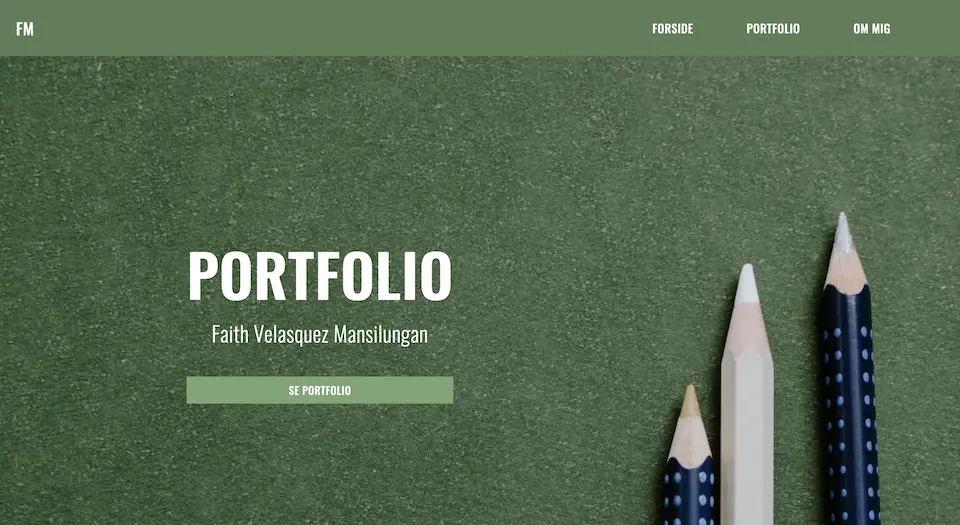
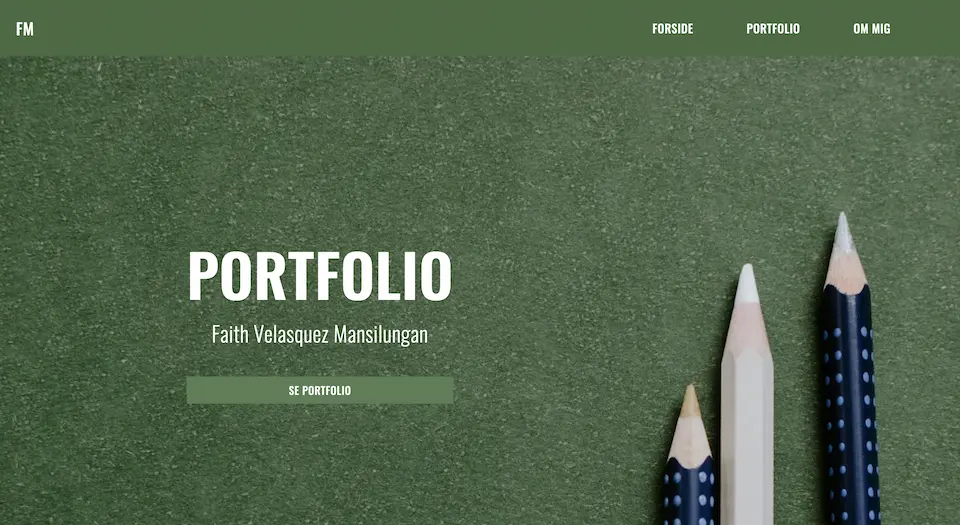
Opdateret billeder efter lighthousetest

diff --git a/tema6.html b/tema6.html
@@ -111,9 +111,21 @@
         <div class="container">
           <div class="tema_grid">
             <div class="tekst">
-              <h2>PORTFOLIO WEBSITE</h2>
+              <h2>TEST AF WEBSITE</h2>
               <p class="p_pf">
-                Her ses den endelige forside af portfolio-websitet.
+                For at teste mit portfolio-site udførte jeg en lighthouse-test.
+                Testen viste, at mine billeder fyldte mere end nødvendigt.
+                Derfor brugte jeg Squoosh til at komprimere billederne til WebP,
+                og ændrede bredden af billederne til den størrelse den faktisk
+                optager på sitet. Med mindre filstørrelser opnår man en
+                hurtigere indlæsning af sitet og et mere bæredygtigt site.
+                <br /><br />
+                Derudover viste lighthouse-testen også, at der var mangel på
+                kontrast mellem den grønne baggrundsfarve og hvide tekstfarve,
+                jeg havde på mine knapper. Dette løste jeg ved at gøre
+                baggrundsfarven mørkere. Her brugte jeg Adobes
+                color-contrast-analyzer, for at være sikker på at
+                kontrastforholdet var godkendt.
               </p>
               <a href="index.html" class="button">GÅ TIL FORSIDEN</a>
             </div>
